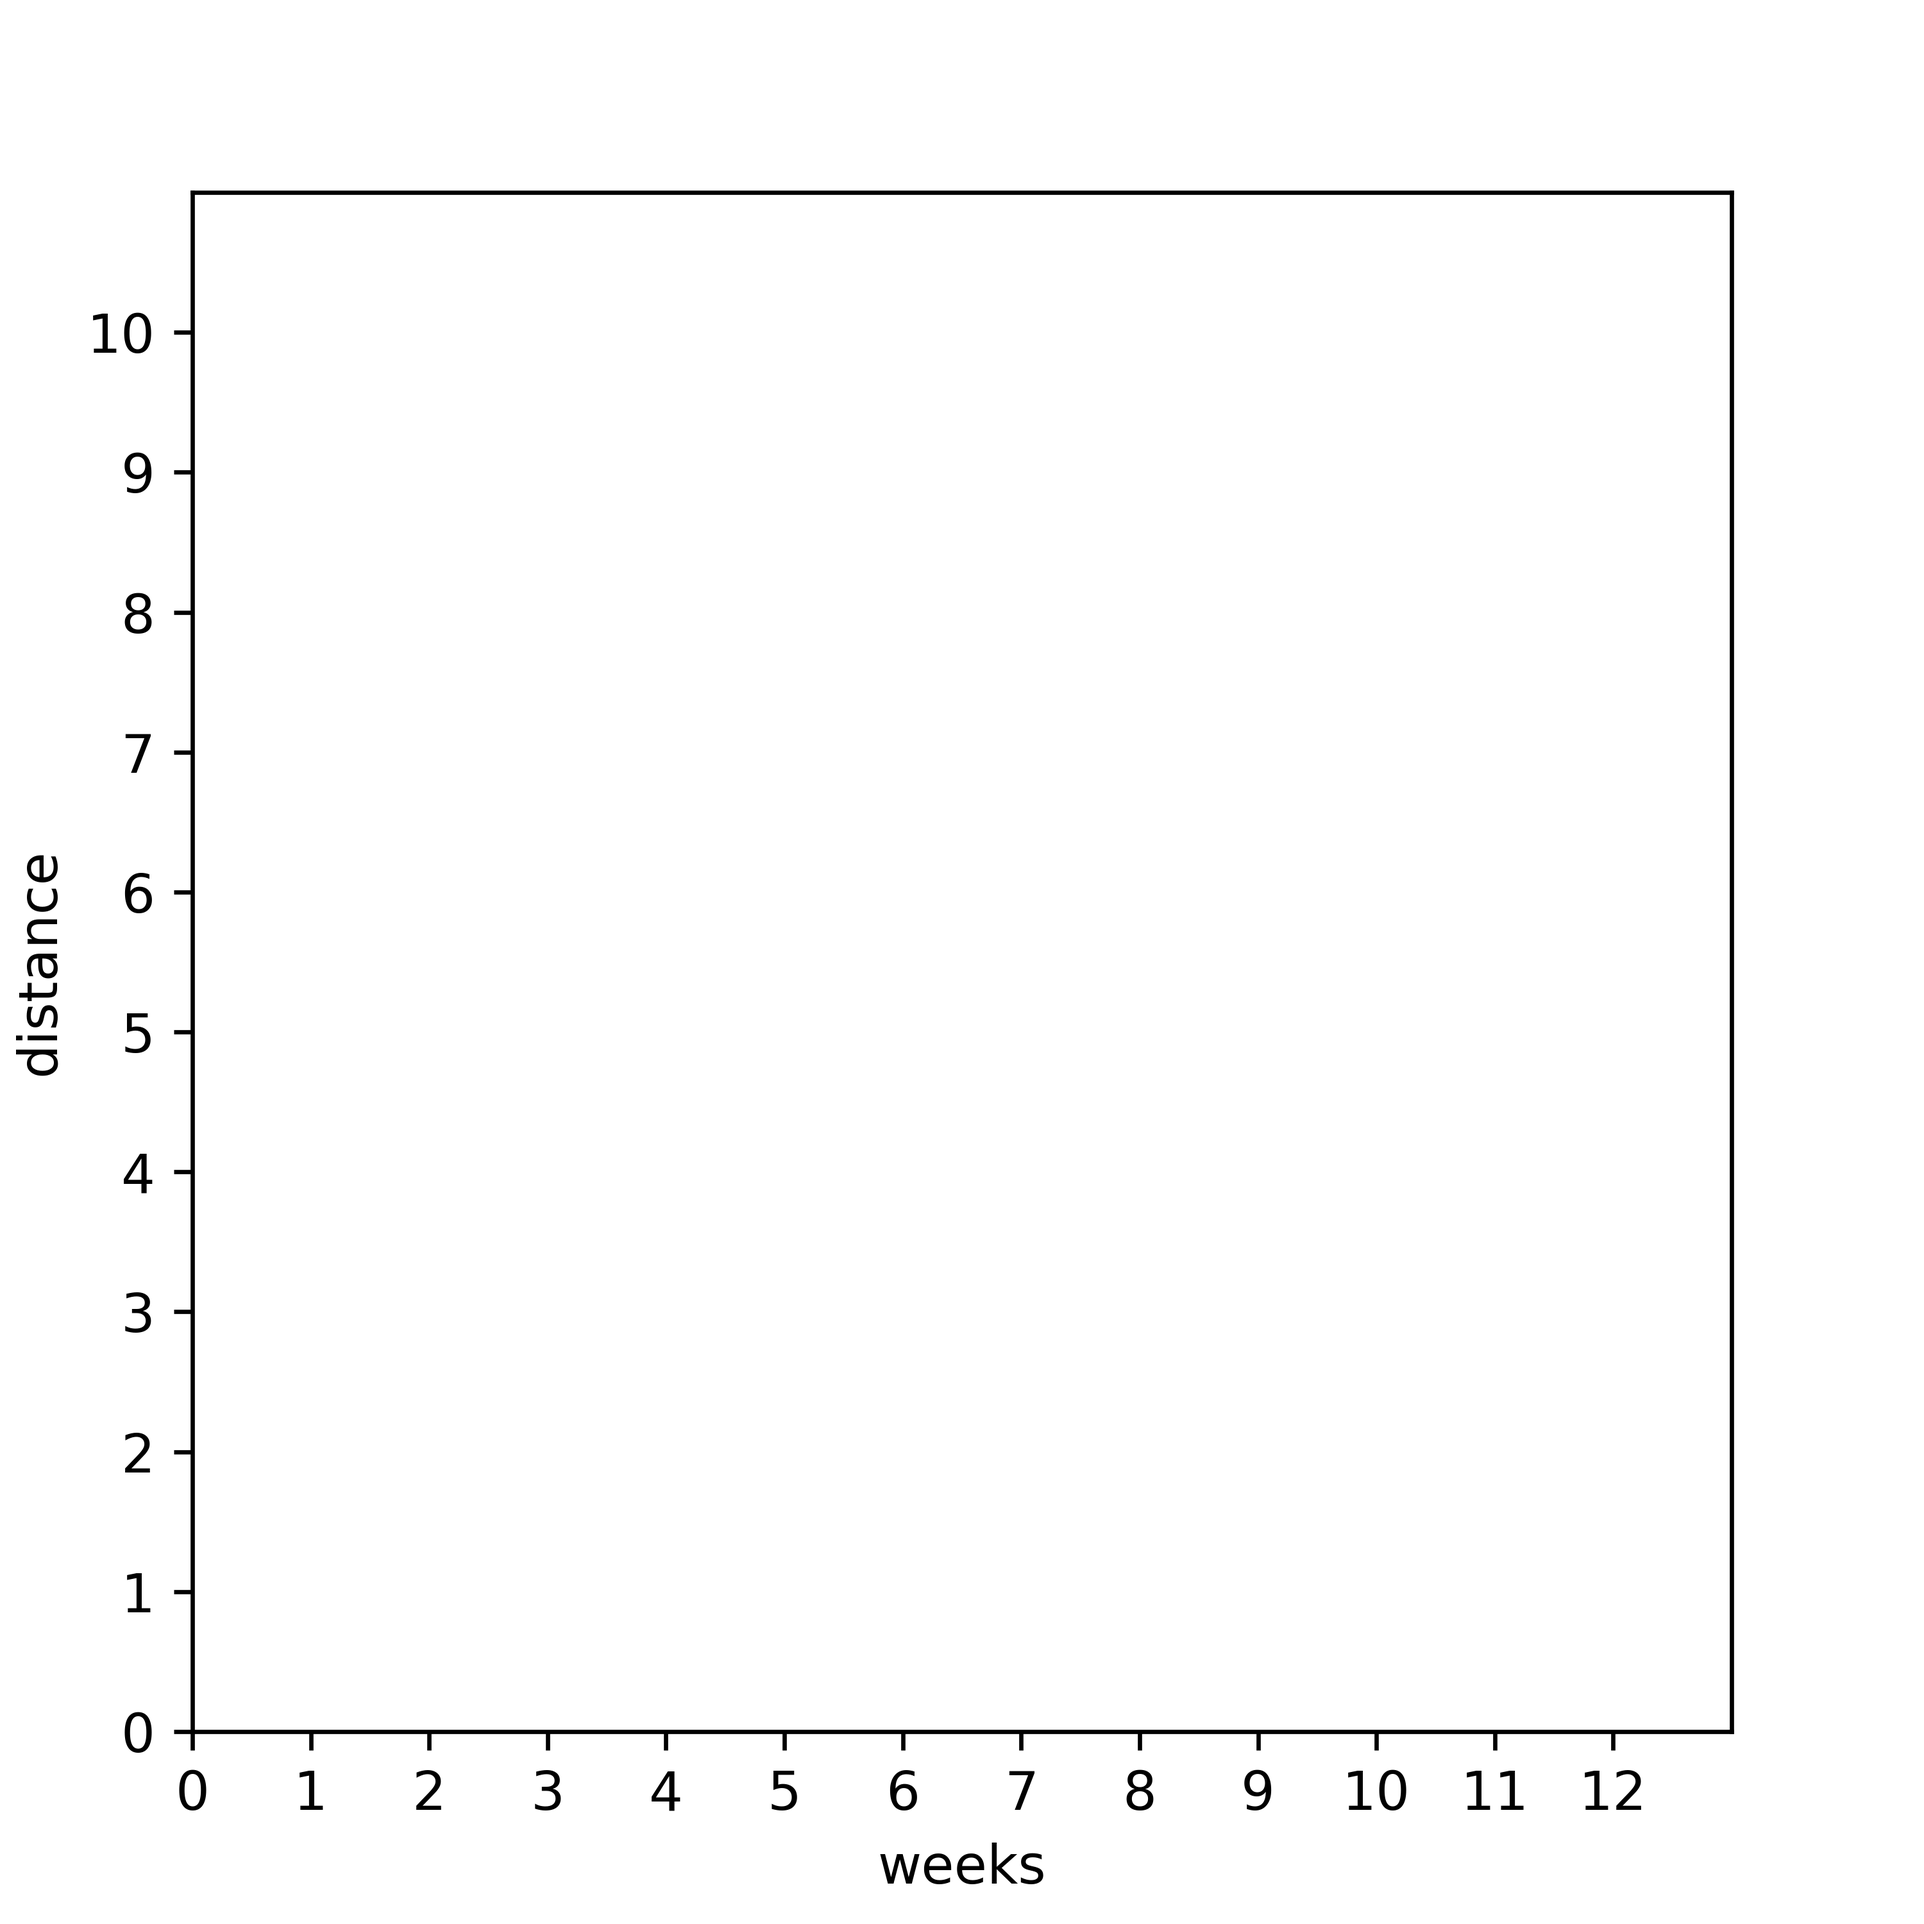
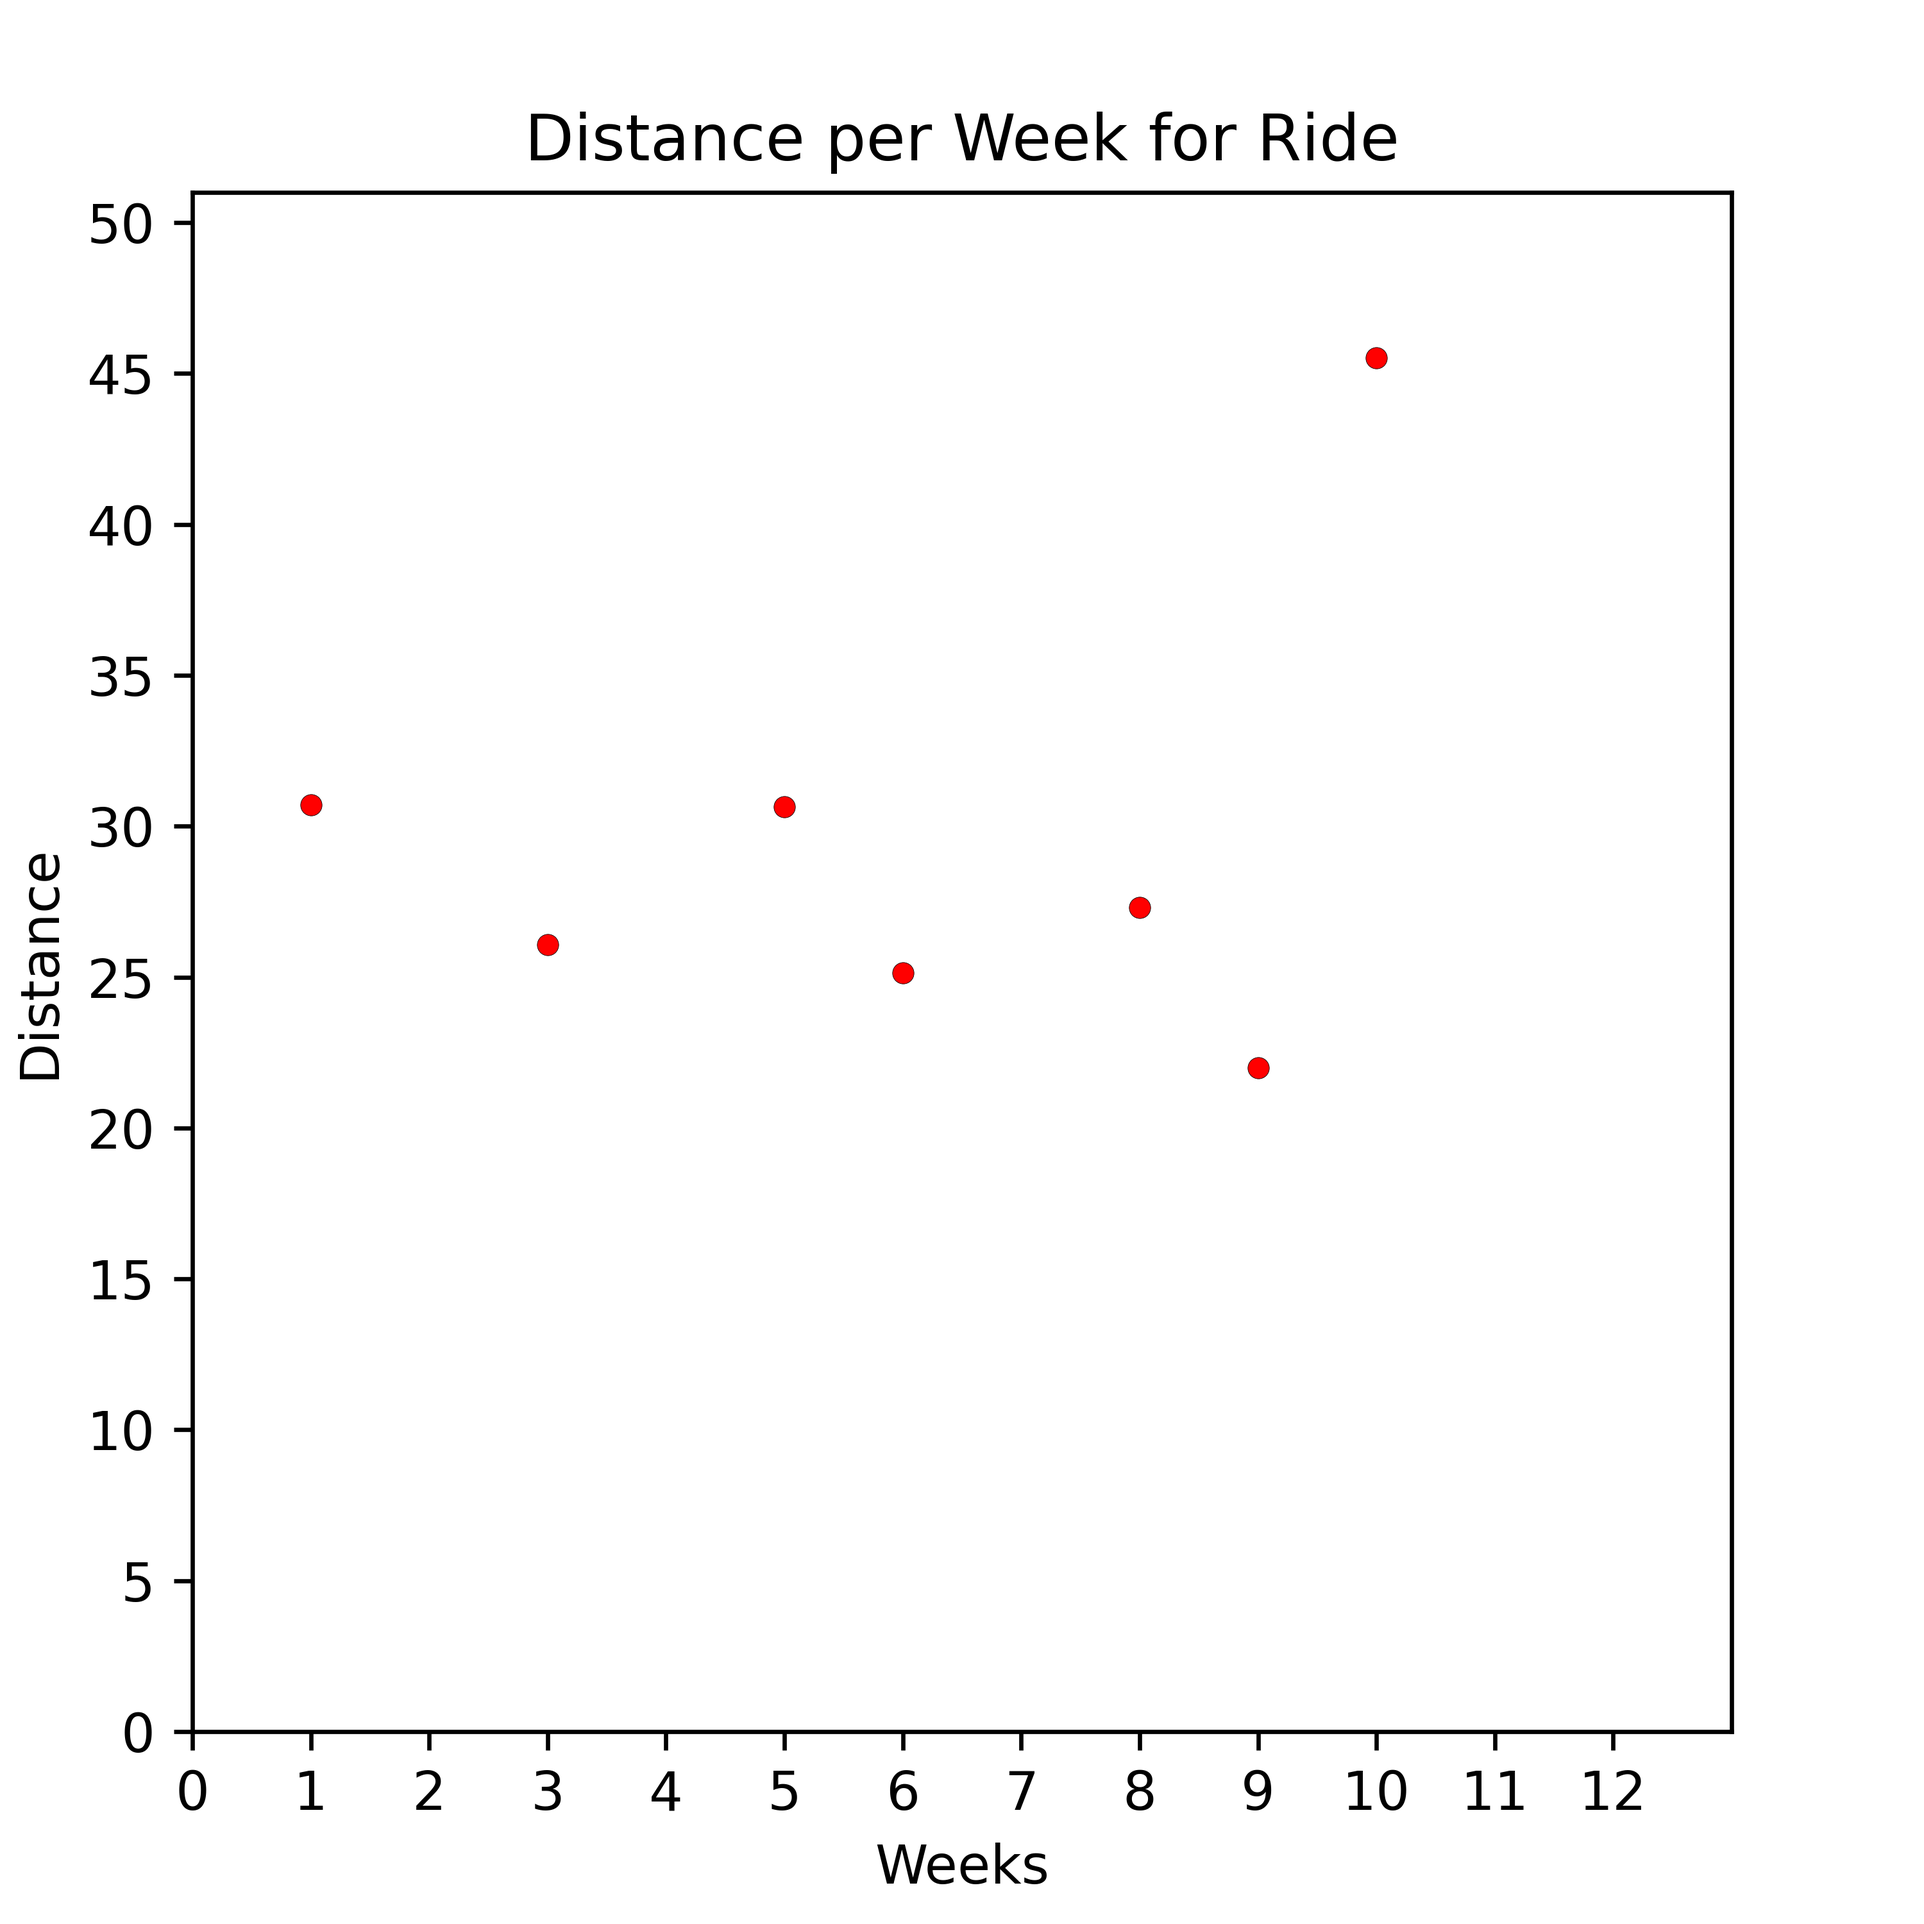
Graphing producing informative graphs, need to work on variants and detaisl

diff --git a/TrainingControlCenter/backend/src/graphs.js b/TrainingControlCenter/backend/src/graphs.js
@@ -1,3 +1,4 @@
+const dbActivities = require('../db/dbActivities');
 const {spawn} = require('child_process');
 
 // General graphing function
@@ -5,15 +6,46 @@ exports.drawGraph = async (req, res) => {
   // Parameters
   let {username, duration, graphType, sport, goal, startDate, outFile} = req.body;
   
-  
+  // Format date
+  console.log(startDate)
+  startDate = new Date(startDate);
+  console.log(startDate)
+
+  // Set end date for DB searching
+  let endDate = new Date(startDate);
+  if (duration === 'Day'){
+    endDate = endDate.setDate(endDate.getDate() + 14);
+    endDate = new Date(endDate);
+  } else if (duration === 'Week'){
+    endDate = endDate.setDate(endDate.getDate() + 84);
+    endDate = new Date(endDate);
+  } else {
+    endDate = endDate = endDate.setFullYear(endDate.getFullYear() + 1)
+    endDate = new Date(endDate);
+  }
+
+  // Convert the date object to a YYYY/MM/DD format
+  let formattedStartDate = startDate ? startDate.toISOString().substring(0, 10) : null;  
+  let formattedEndDate = endDate ? endDate.toISOString().substring(0, 10) : null;
+
+  console.log(formattedStartDate)
+  console.log(formattedEndDate)
+
+  // Database call
+  const returnValue = await dbActivities.findActivity(username, null, sport, null, null, null, null, null, formattedStartDate, formattedEndDate);
+  // Error case
+  if (returnValue === -1) {
+    res.status(401).send('Error getting activities from graph.js');
+  } 
+
   // Spawn python graphing child processs
   let responseData;
-  const python = await spawn('python3', ['./src/graphing/generalGraphs.py', username, duration, graphType, sport, goal, startDate, outFile]);
+  const python = await spawn('python3', ['./src/graphing/generalGraphs.py', username, duration, graphType, sport, goal, startDate.getFullYear(), startDate.getMonth(), startDate.getDate(), JSON.stringify(returnValue), outFile]);
   
   // Stdout data
   python.stdout.on('data', (data) => {
     responseData = data.toString();
-    console.log('stdout: ' + data);
+    //console.log('stdout: ' + data);
   });
   
   // Error data
@@ -25,6 +57,7 @@ exports.drawGraph = async (req, res) => {
   python.on('close', (code) => {
     console.log('Closing: ' + code);
     console.log(responseData)
-    res.send(responseData)
+    //res.send(responseData)
+    res.status(200).json(returnValue);
   });
 };

diff --git a/TrainingControlCenter/backend/src/activities.js b/TrainingControlCenter/backend/src/activities.js
@@ -5,6 +5,8 @@ exports.addActivity = async (req, res) => {
   let {username, name, type, sport, description} = req.body;
   let {distance, time, start_date_local} = req.body.json;
 
+  console.log(start_date_local)
+
   // Convert a date string to a Date object
   let date = start_date_local ? new Date(start_date_local) : null;
 
@@ -106,10 +108,7 @@ exports.getActivities = async (req, res) => {
   const username = req.query.username;
   let name = req.query.name;
   let sport = req.query.sport;
-  // let distance = req.query.distance;
   let type = req.query.type;
-  // let time = req.query.time;
-  // let start_date_local = req.query.start_date_local;
 
   let minDuration = req.query.minDuration;
   let maxDuration = req.query.maxDuration;

diff --git a/TrainingControlCenter/backend/src/graphing/generalGraphs.py b/TrainingControlCenter/backend/src/graphing/generalGraphs.py
@@ -5,10 +5,13 @@ import numpy as np
 import matplotlib.image as mplimg
 import math
 import sys
+import json
 
-def generalHistoryGraph (username, duration, graphType, sport, goal, startDate, outFile):
+from datetime import date, timedelta
 
-  print ('Params: ' + username, duration, graphType, sport, goal, startDate, outFile)
+def generalHistoryGraph (username, duration, graphType, sport, goal, startYear, startMonth, startDay, jsonInput, outFile):
+
+  print ('Params: ' + username, duration, graphType, sport, goal, startYear, startMonth, startDay, jsonInput, outFile)
   # Figure creation
   figureWidth=5
   figureHeight=5
@@ -20,32 +23,63 @@ def generalHistoryGraph (username, duration, graphType, sport, goal, startDate, 
 
   panel1 = plt.axes([0.5/figureWidth, 0.5/figureHeight, panelWidth/figureWidth,panelHeight/figureHeight])
 
+  # Database date filtering
+  # minDate = date(startYear, startMonth, startDay) 
+  # maxDate = minDate
+  # if duration == 'Day':
+  #   maxDate = minDate + timedelta(days=14)
+
+  # elif duration == 'Week':
+  #   maxDate = minDate + timedelta(weeks=12)
+  # else:
+  #   maxDate = minDate + timedelta(months=12)
+
+
+  activityList = json.loads(jsonInput)
+  # print(activityDict)
+
+  for item in activityList:
+    print (item['name'])
+
+  # Get totals for distance or time
+  totals = []
+  counter = 1
+  if (graphType == 'Distance'):
+    # Daily total graphing
+
+    # Weekly total graphing
+
+    # Monthly total graphing
+    
+    for item in activityList:
+      totals.append((counter, item['distance']/1609.34))
+      counter += 1
+  if (graphType == 'Time'):
+    for item in activityList:
+      totals.append((counter, item['moving_time']/3600))
+      counter += 1
+    
+  
+    # Daily total graphing
+
+    # Weekly total graphing
+
+    # Monthly total graphing
+
+
+
+
+  
+
+
+
 
   # Graphing
-  maxY = 10 # maxY is the largest y value, can be goal value
-  maxY = math.ceil(maxY * 1.1)
-
-  # Data Graphing TODO
-
-
-
-
-
-
-  # Goal overlay, optional
-  if goal == True:
-    pass
-
-
-
-
-
-
-
-
-
-          
   # Panel ranges
+  maxY = max(totals)[1] # maxY is the largest y value, can be goal value
+  maxY = math.ceil(maxY * 1.1)
+  yTickSpace = maxY//10
+
   maxX = 13
   if duration == 'Day':
     maxX = 15
@@ -53,12 +87,32 @@ def generalHistoryGraph (username, duration, graphType, sport, goal, startDate, 
   panel1.set_xlim(0, maxX)
   panel1.set_ylim(0, maxY) 
 
+  
+
+  for item in totals:
+    panel1.plot(item[0],item[1],
+                  marker='o',
+                  markerfacecolor='red',
+                  markeredgewidth=0.1,
+                  markersize=4,
+                  color='black',
+                  linewidth=0,
+                  alpha=1
+      )
+
+
+  # If goals selected, get goal for corresponding sport of type time/distance from database TODO
+
+  # Goal overlay, optional
+  if goal == True:
+    pass
+
   # Ticks and labels 
   panel1.set_xticks(np.arange(0, maxX))
-  panel1.set_yticks(np.arange(0, maxY))
+  panel1.set_yticks(np.arange(0, maxY, yTickSpace))
 
   # Title
-  # panel1.set_title(graphType + ' per ' duration + ' for all Sports')
+  panel1.set_title(graphType + ' per ' + duration + ' for ' + sport)
 
   panel1.set_xlabel(duration + 's')
   panel1.set_ylabel(graphType)
@@ -71,8 +125,8 @@ def generalHistoryGraph (username, duration, graphType, sport, goal, startDate, 
 
   # TODO, save location in images folder
   plt.savefig('../frontend/images/' + outFile,dpi=600)
-  # plt.savefig(outFile,dpi=600)
+  #plt.savefig(outFile,dpi=600)
   return 'Graphing Complete'
 
-
-generalHistoryGraph(sys.argv[1], sys.argv[2], sys.argv[3], sys.argv[4], sys.argv[5], sys.argv[6], sys.argv[7])
+# generalHistoryGraph('fkurmann', 'Week', 'Distance', 'Run', False, 2023, 2, 19, 'string', 'test')
+generalHistoryGraph(sys.argv[1], sys.argv[2], sys.argv[3], sys.argv[4], sys.argv[5], sys.argv[6], sys.argv[7], sys.argv[8], sys.argv[9], sys.argv[10])
